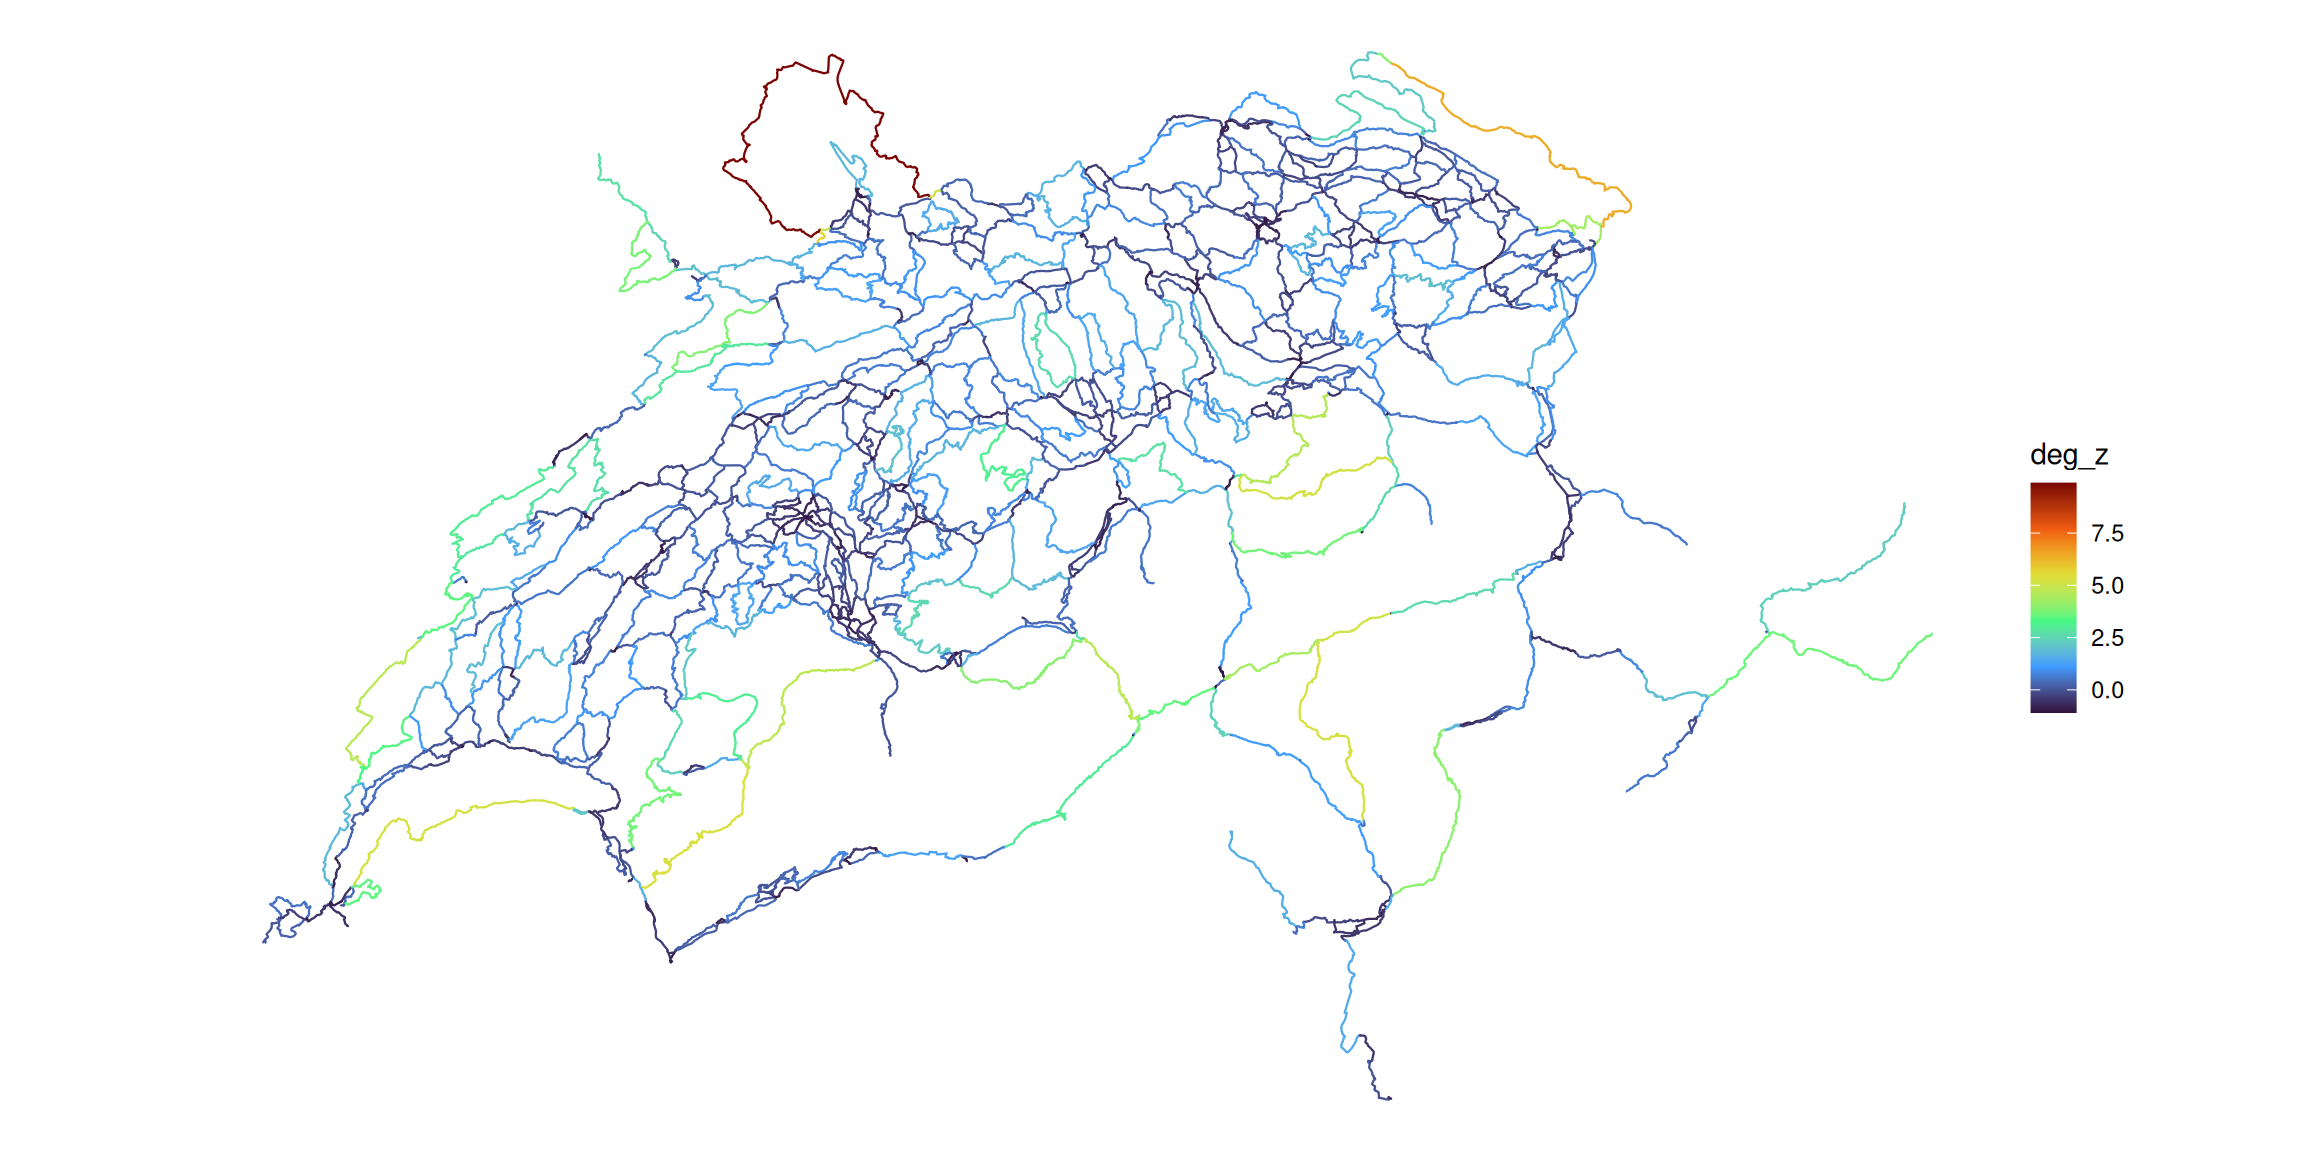
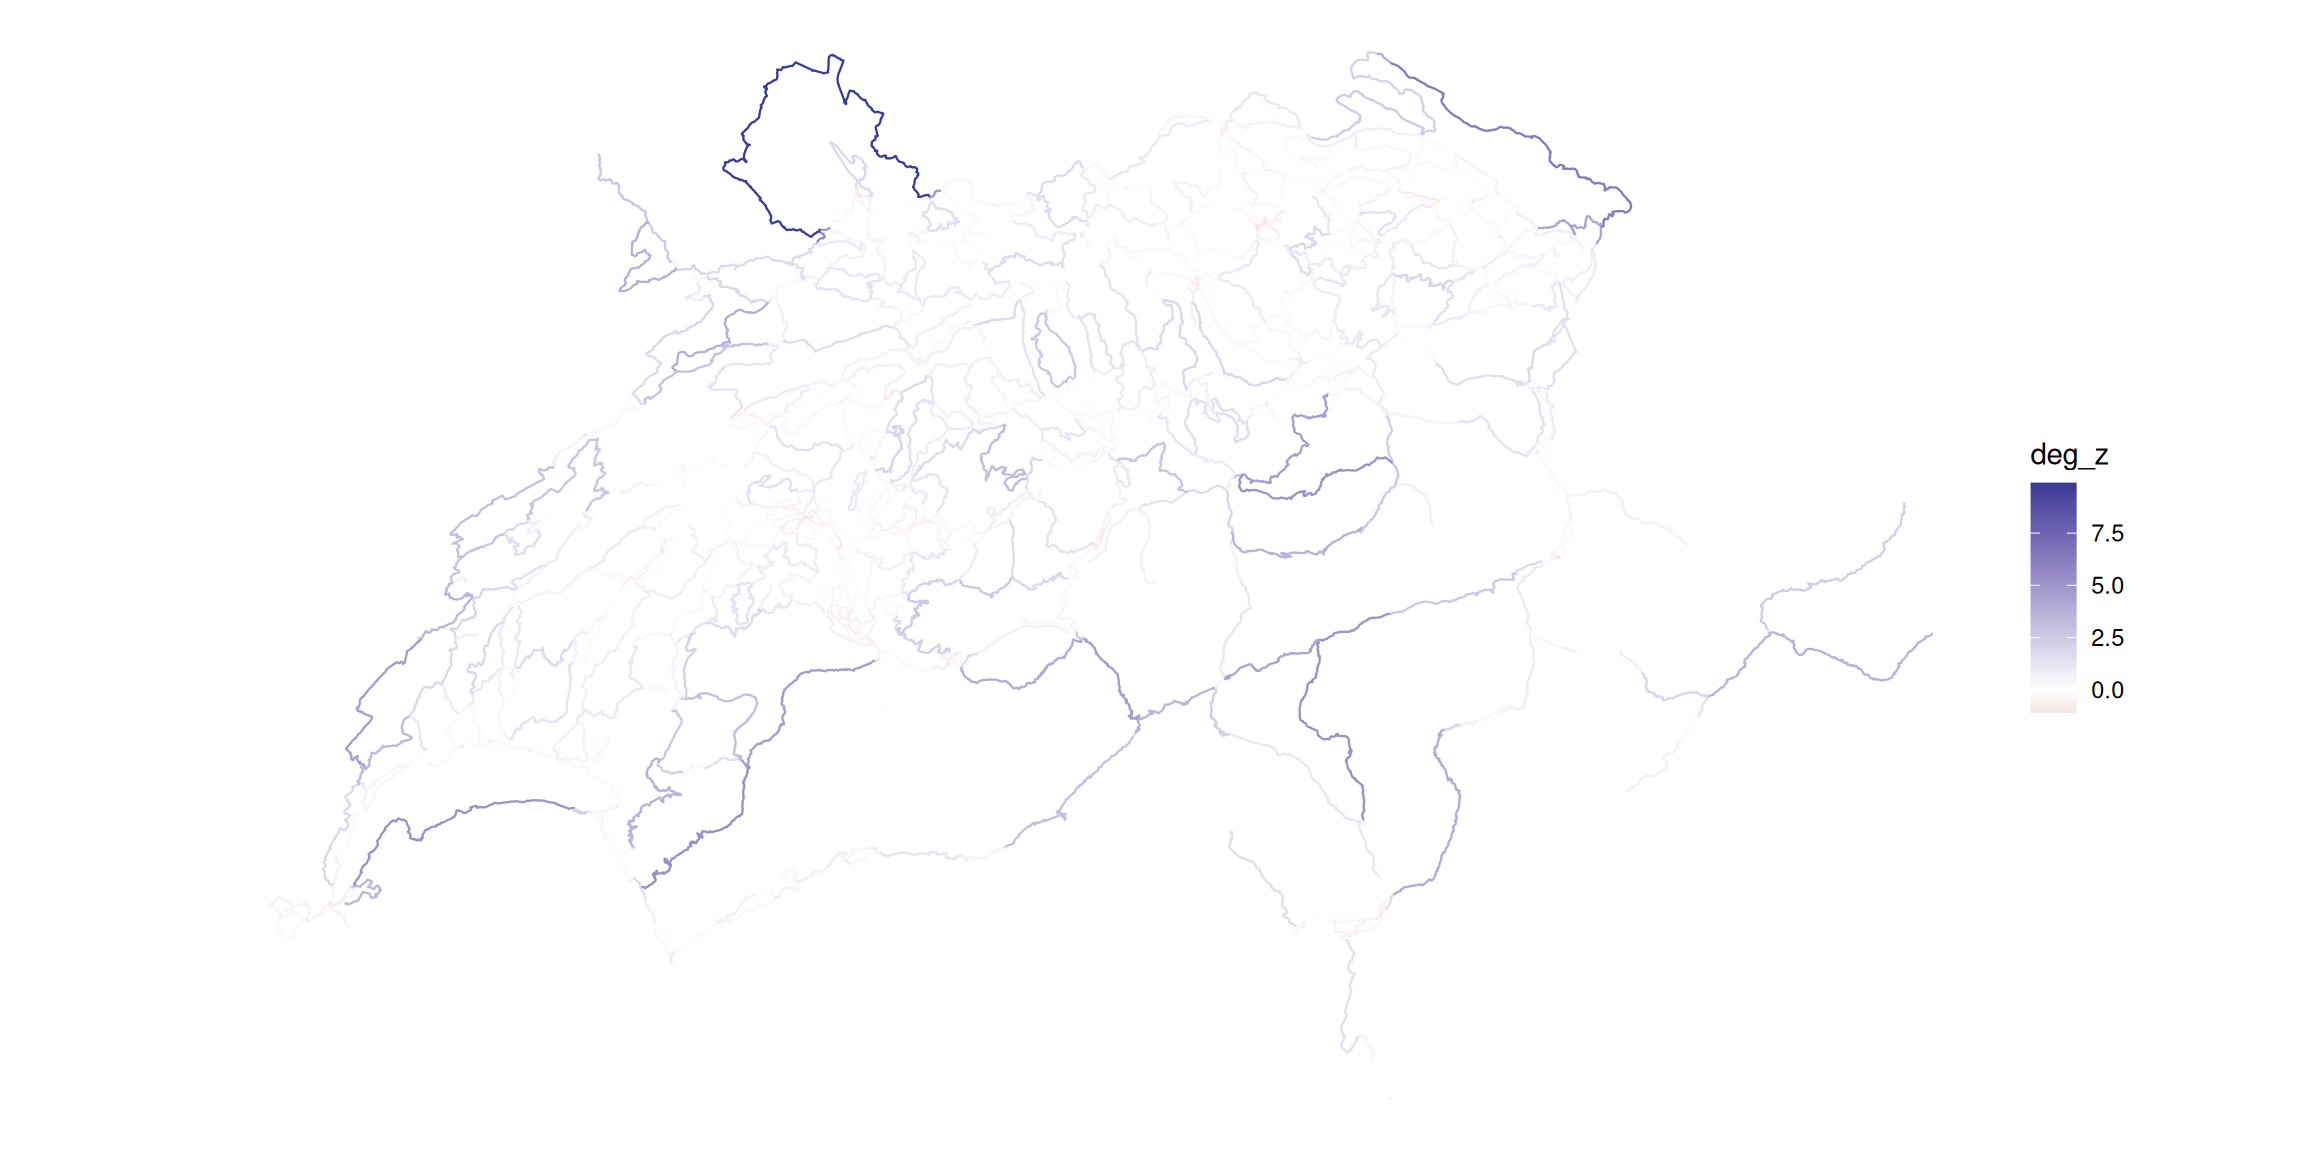
Built site for gh-pages

diff --git a/index.html b/index.html
@@ -301,17 +301,17 @@ Projected CRS: CH1903+ / LV95</code></pre>
 </div>
 <div class="code-copy-outer-scaffold"><div class="sourceCode cell-code" id="cb13"><pre class="sourceCode r code-with-copy"><code class="sourceCode r"><span id="cb13-1"><a href="#cb13-1" aria-hidden="true" tabindex="-1"></a><span class="fu">ggplot</span>(edges_sf) <span class="sc">+</span> </span>
 <span id="cb13-2"><a href="#cb13-2" aria-hidden="true" tabindex="-1"></a>  <span class="fu">geom_sf</span>(<span class="fu">aes</span>(<span class="at">color =</span> btw_z), <span class="at">size =</span> <span class="fl">0.4</span>) <span class="sc">+</span> </span>
-<span id="cb13-3"><a href="#cb13-3" aria-hidden="true" tabindex="-1"></a>  <span class="fu">scale_color_viridis_c</span>(<span class="at">option =</span> <span class="st">"turbo"</span>) <span class="sc">+</span> </span>
+<span id="cb13-3"><a href="#cb13-3" aria-hidden="true" tabindex="-1"></a>  <span class="fu">scale_color_gradient2</span>(<span class="at">midpoint =</span> <span class="dv">0</span>) <span class="sc">+</span> </span>
 <span id="cb13-4"><a href="#cb13-4" aria-hidden="true" tabindex="-1"></a>  <span class="fu">theme_void</span>()  <span class="sc">+</span> </span>
 <span id="cb13-5"><a href="#cb13-5" aria-hidden="true" tabindex="-1"></a>  <span class="fu">theme</span>(<span class="at">plot.margin =</span> <span class="fu">margin</span>(<span class="dv">0</span>, <span class="dv">0</span>, <span class="dv">0</span>, <span class="dv">0</span>))</span>
 <span id="cb13-6"><a href="#cb13-6" aria-hidden="true" tabindex="-1"></a><span class="fu">ggplot</span>(edges_sf) <span class="sc">+</span> </span>
 <span id="cb13-7"><a href="#cb13-7" aria-hidden="true" tabindex="-1"></a>  <span class="fu">geom_sf</span>(<span class="fu">aes</span>(<span class="at">color =</span> clo_z), <span class="at">size =</span> <span class="fl">0.4</span>) <span class="sc">+</span> </span>
-<span id="cb13-8"><a href="#cb13-8" aria-hidden="true" tabindex="-1"></a>  <span class="fu">scale_color_viridis_c</span>(<span class="at">option =</span> <span class="st">"turbo"</span>) <span class="sc">+</span> </span>
+<span id="cb13-8"><a href="#cb13-8" aria-hidden="true" tabindex="-1"></a>  <span class="fu">scale_color_gradient2</span>(<span class="at">midpoint =</span> <span class="dv">0</span>) <span class="sc">+</span> </span>
 <span id="cb13-9"><a href="#cb13-9" aria-hidden="true" tabindex="-1"></a>  <span class="fu">theme_void</span>() <span class="sc">+</span> </span>
 <span id="cb13-10"><a href="#cb13-10" aria-hidden="true" tabindex="-1"></a>  <span class="fu">theme</span>(<span class="at">plot.margin =</span> <span class="fu">margin</span>(<span class="dv">0</span>, <span class="dv">0</span>, <span class="dv">0</span>, <span class="dv">0</span>))</span>
 <span id="cb13-11"><a href="#cb13-11" aria-hidden="true" tabindex="-1"></a><span class="fu">ggplot</span>(edges_sf) <span class="sc">+</span> </span>
 <span id="cb13-12"><a href="#cb13-12" aria-hidden="true" tabindex="-1"></a>  <span class="fu">geom_sf</span>(<span class="fu">aes</span>(<span class="at">color =</span> deg_z), <span class="at">size =</span> <span class="fl">0.4</span>) <span class="sc">+</span></span>
-<span id="cb13-13"><a href="#cb13-13" aria-hidden="true" tabindex="-1"></a>  <span class="fu">scale_color_viridis_c</span>(<span class="at">option =</span> <span class="st">"turbo"</span>) <span class="sc">+</span> </span>
+<span id="cb13-13"><a href="#cb13-13" aria-hidden="true" tabindex="-1"></a>  <span class="fu">scale_color_gradient2</span>(<span class="at">midpoint =</span> <span class="dv">0</span>) <span class="sc">+</span> </span>
 <span id="cb13-14"><a href="#cb13-14" aria-hidden="true" tabindex="-1"></a>  <span class="fu">theme_void</span>() <span class="sc">+</span> </span>
 <span id="cb13-15"><a href="#cb13-15" aria-hidden="true" tabindex="-1"></a>  <span class="fu">theme</span>(<span class="at">plot.margin =</span> <span class="fu">margin</span>(<span class="dv">0</span>, <span class="dv">0</span>, <span class="dv">0</span>, <span class="dv">0</span>))</span></code></pre></div><button title="Copy to Clipboard" class="code-copy-button"><i class="bi"></i></button></div>
 <div class="cell quarto-layout-panel" data-fig-nrow="3" data-layout-ncol="1">
